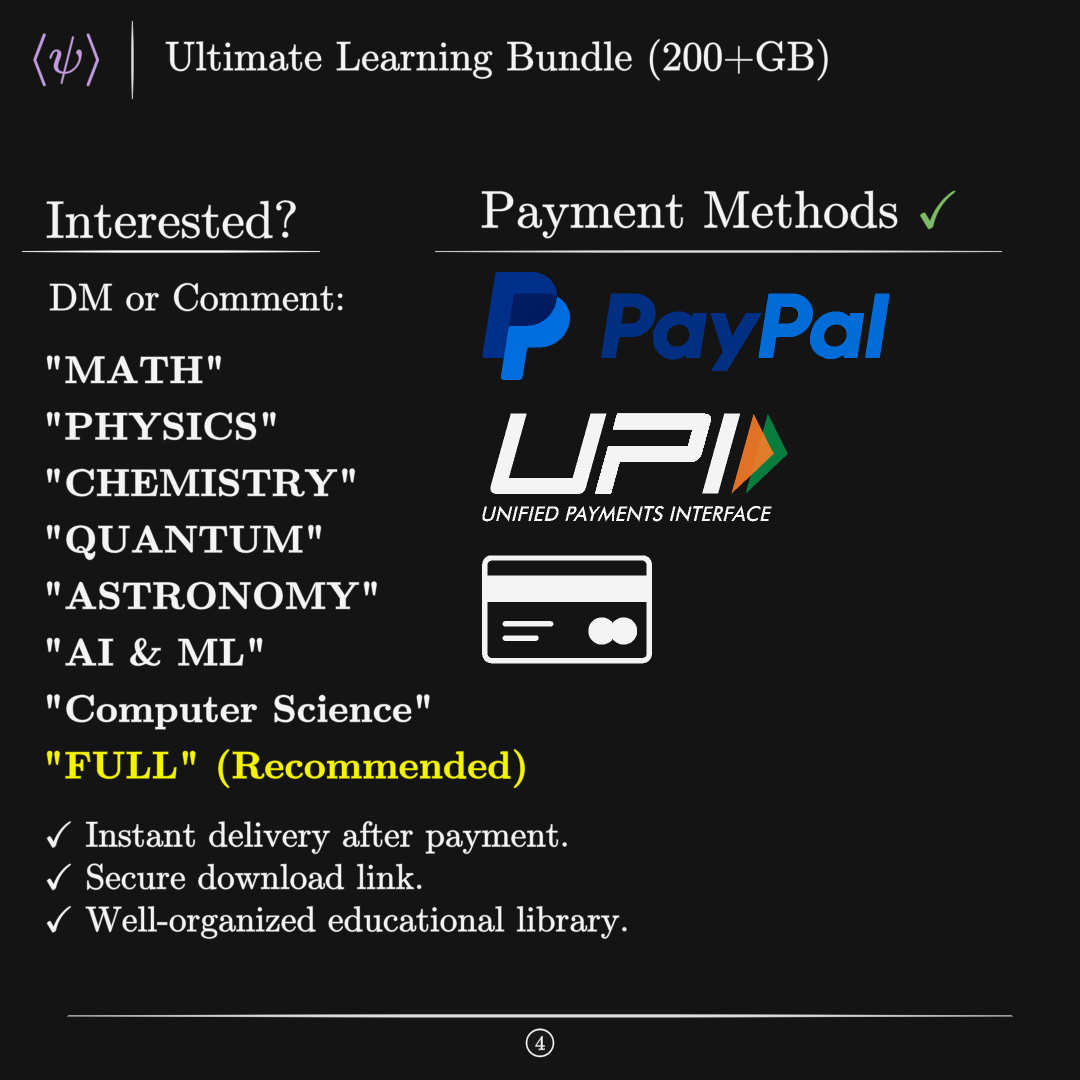
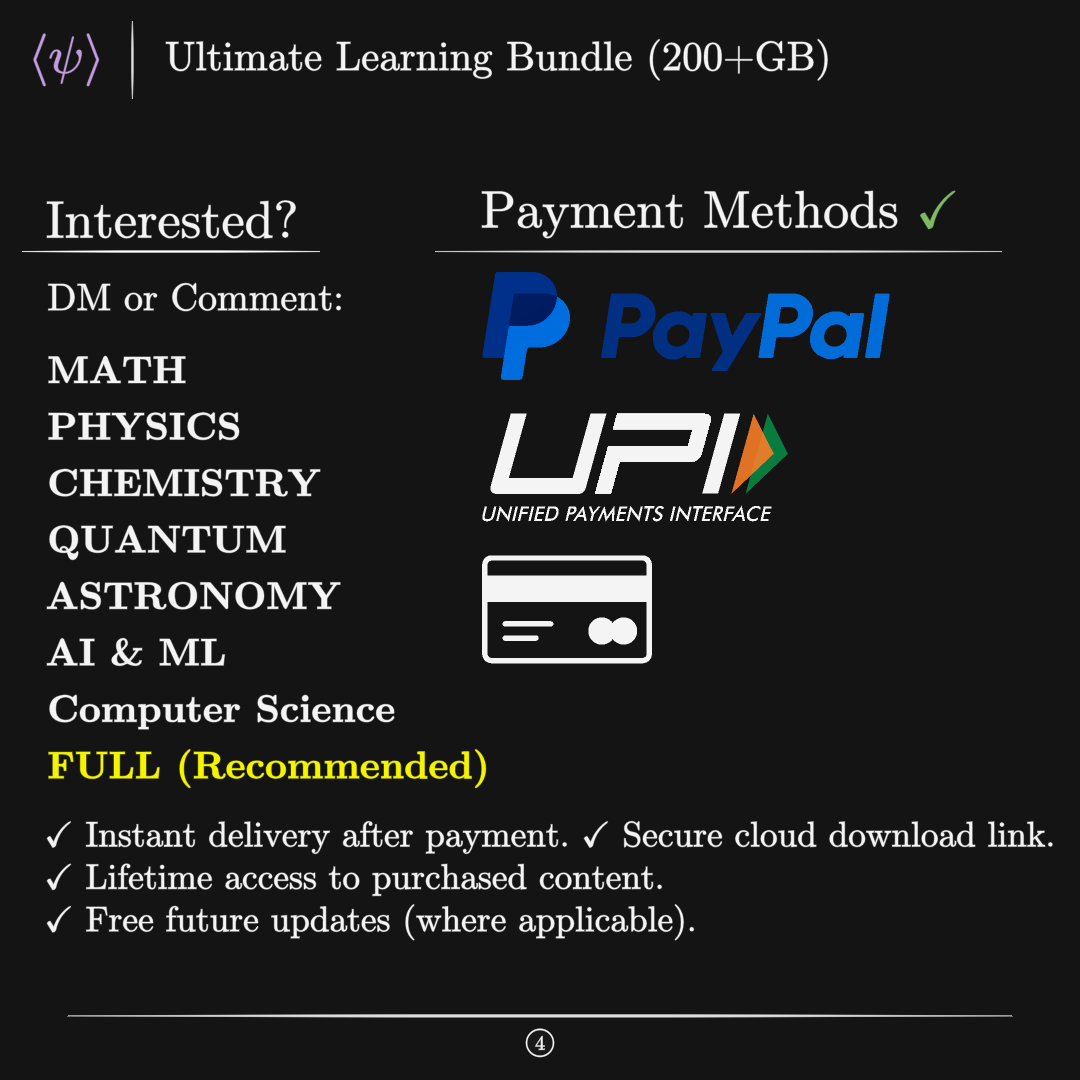
f

Changed region(s): [[0.0306, 0.2444, 0.4889, 0.7333], [0.0611, 0.7639, 0.9778, 0.8861]]

diff --git a/test.py b/test.py
@@ -158,17 +158,17 @@ class Payment(PaidTemplate):
         body = TexText(
             r"""
             DM or Comment:\\[0.25cm]
-            \textbf{"MATH"}\\[0.1cm]
-            \textbf{"PHYSICS"}\\[0.1cm]
-            \textbf{"CHEMISTRY"}\\[0.1cm]
-            \textbf{"QUANTUM"}\\[0.1cm]
-            \textbf{"ASTRONOMY"}\\[0.1cm]
-            \textbf{"AI \& ML"}\\[0.1cm]
-            \textbf{"Computer Science"}\\[0.1cm]
-            \textbf{"FULL" (Recommended)}
-            """, isolate=['"FULL" (Recommended)'], alignment=R"\flushleft", font_size=28,
+            \textbf{MATH}\\[0.1cm]
+            \textbf{PHYSICS}\\[0.1cm]
+            \textbf{CHEMISTRY}\\[0.1cm]
+            \textbf{QUANTUM}\\[0.1cm]
+            \textbf{ASTRONOMY}\\[0.1cm]
+            \textbf{AI \& ML}\\[0.1cm]
+            \textbf{Computer Science}\\[0.1cm]
+            \textbf{FULL (Recommended)}
+            """, isolate=['FULL (Recommended)'], alignment=R"\flushleft", font_size=28,
         )
-        body['"FULL" (Recommended)'].set_color(YELLOW)
+        body['FULL (Recommended)'].set_color(YELLOW)
         body.next_to(title, DOWN, buff=MED_LARGE_BUFF * 0.67, aligned_edge=LEFT)
         self.add(body)
 
@@ -197,9 +197,10 @@ class Payment(PaidTemplate):
 
         info = TexText(
             r"""
-            $\checkmark$ Instant delivery after payment.\\
-            $\checkmark$ Secure download link.\\
-            $\checkmark$ Well-organized educational library.
+            $\checkmark$ Instant delivery after payment.\
+            $\checkmark$ Secure cloud download link.\\
+            $\checkmark$ Lifetime access to purchased content.\\
+            $\checkmark$ Free future updates (where applicable).
             """, alignment=R"\flushleft",
             font_size=26,
         )

diff --git a/latex_cache/working.tex b/latex_cache/working.tex
@@ -27,8 +27,9 @@
 \begin{document}
 
 \flushleft
-$\checkmark$ Instant delivery after payment.\\
-            $\checkmark$ Secure download link.\\
-            $\checkmark$ Well-organized educational library.
+$\checkmark$ Instant delivery after payment.\
+            $\checkmark$ Secure cloud download link.\\
+            $\checkmark$ Lifetime access to purchased content.\\
+            $\checkmark$ Free future updates (where applicable).
 
 \end{document}
